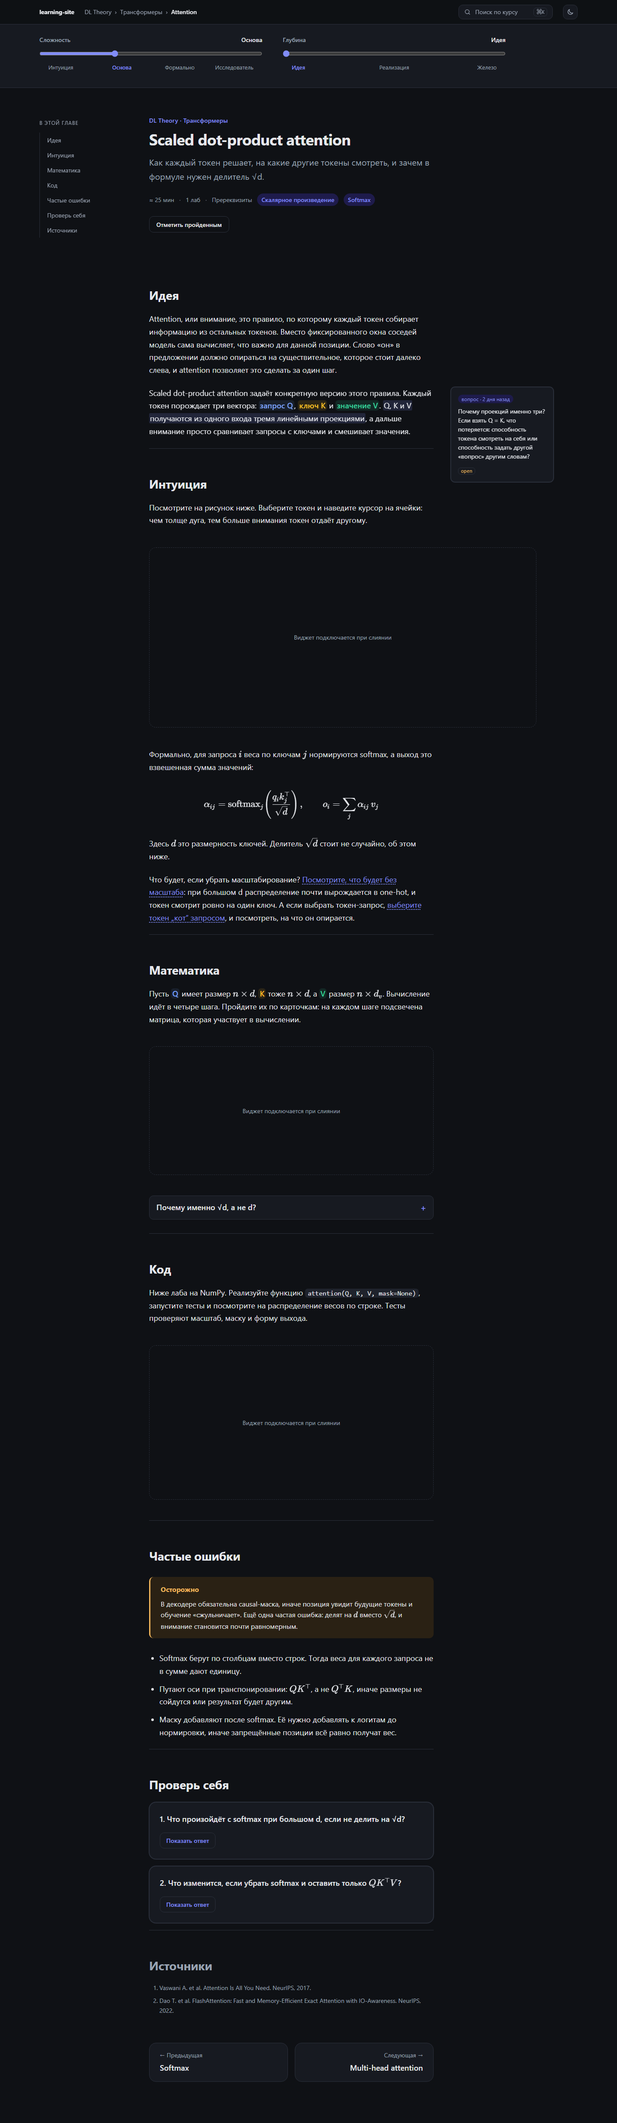
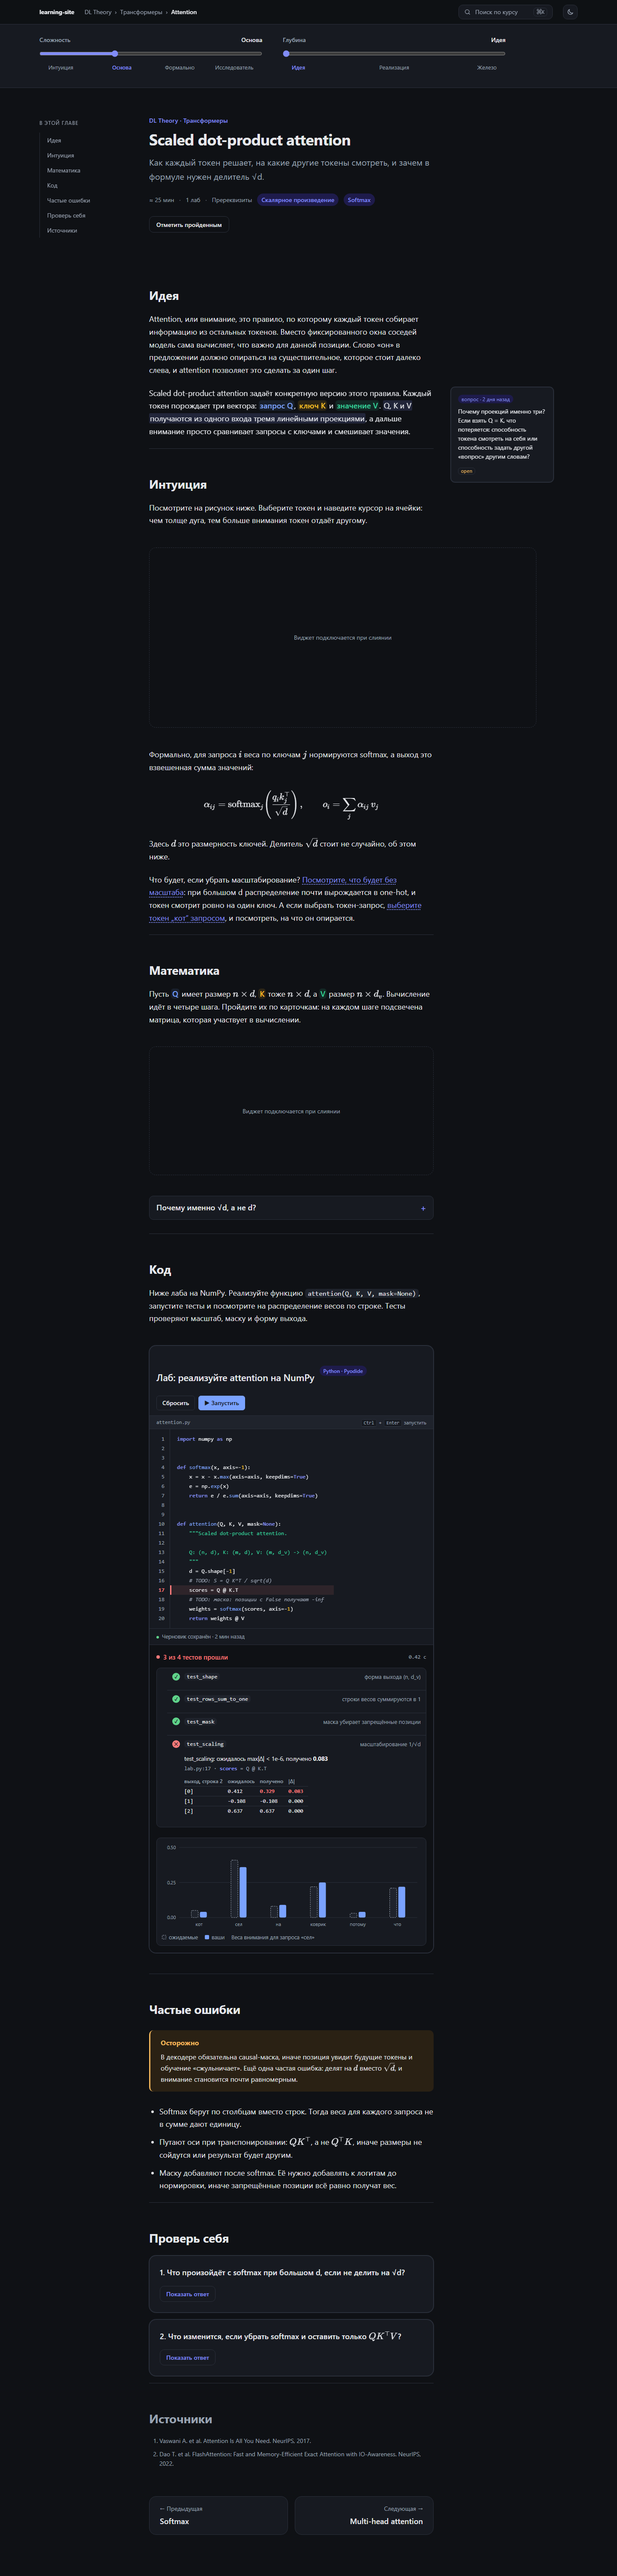
mockup: place step cards in wide figure

diff --git a/docs/mockups/chapter.html b/docs/mockups/chapter.html
@@ -115,7 +115,9 @@
   <section id="math" class="sec">
     <h2>Математика</h2>
     <p>Пусть <span class="ent ent-q">Q</span> имеет размер $n \times d$, <span class="ent ent-k">K</span> тоже $n \times d$, а <span class="ent ent-v">V</span> размер $n \times d_v$. Вычисление идёт в четыре шага. Пройдите их по карточкам: на каждом шаге подсвечена матрица, которая участвует в вычислении.</p>
-    <div id="steps-demo" class="demo-slot"></div>
+    <figure class="fig-wide">
+      <div id="steps-demo" class="demo-slot"></div>
+    </figure>
 
     <div data-c-min="3">
       <h3>Почему √d, а не просто норма</h3>
